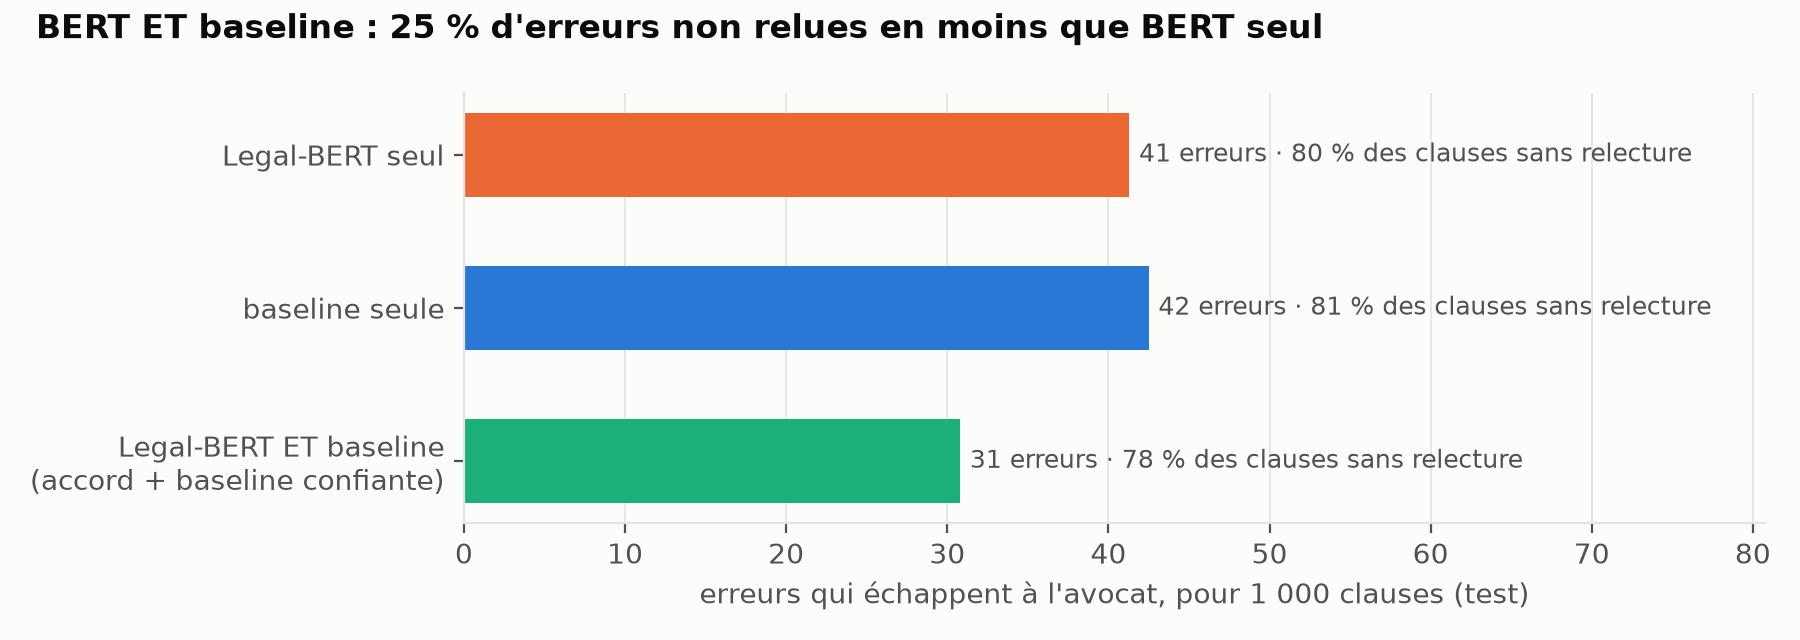
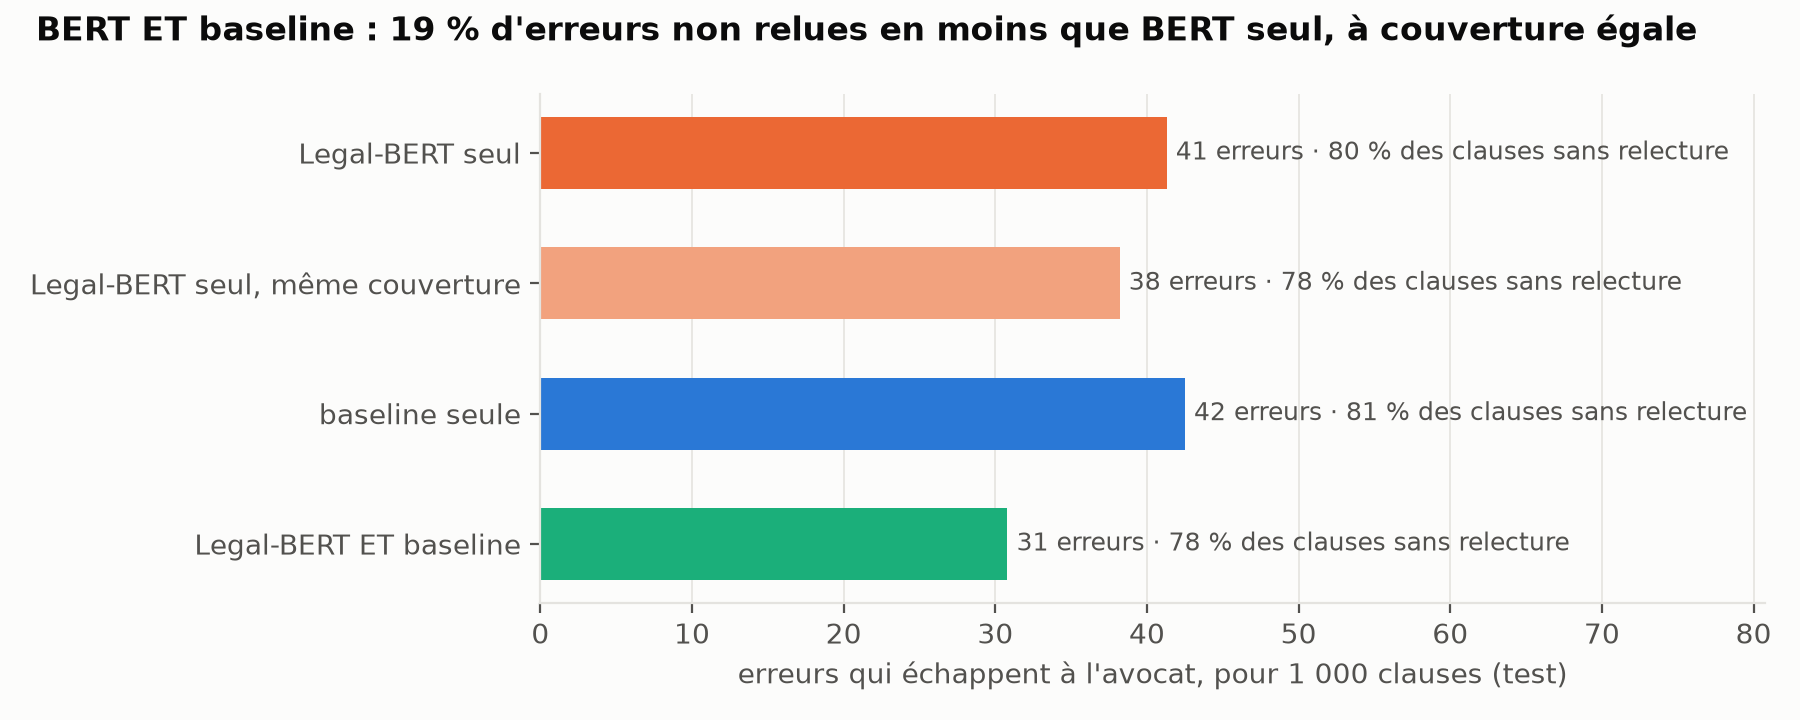
fix: address review of the audit (equal-coverage comparison, LSTM score, tests)
- combined rule also compared at equal coverage: 30.8 vs 38.2 unreviewed errors
  per 1,000 on test (-19%), 29.6 vs 37.3 on validation; figure and docs updated
- model card: BiLSTM test macro-F1 0.787; README: five findings
- limit: jurisdiction counterfactual creates unusual wording (State of France)
- tests for the combined rule and the per-subgroup macro-F1
- baseline setting read from baseline_results.csv instead of a hard-coded copy

diff --git a/src/ledgar/audit.py b/src/ledgar/audit.py
@@ -235,19 +235,31 @@ def ood_report(predict_proba, names, threshold, model_name):
 
 # ---------------------------------------------------------------- part 3: BERT AND the baseline
 
-def review_rules(split, thresholds):
-    """Which clauses are labelled without review, under three rules (thresholds chosen on validation).
+COMBINED = "Legal-BERT ET baseline"
+BERT_SAME_COVERAGE = "Legal-BERT seul, même couverture"
+
+
+def combine_rules(b_pred, b_conf, l_pred, l_conf, thresholds):
+    """Which clauses are labelled without review, under four rules. Returns {rule: (auto mask, predictions)}.
 
     The combined rule keeps Legal-BERT's label (the more accurate model) but labels a clause alone only if the
     baseline agrees AND is confident: the baseline's honest confidence becomes the safety net of BERT's labels.
-    Returns {rule: (auto mask, predictions)}.
+    It reviews a few more clauses than Legal-BERT alone, so it is also compared at EQUAL coverage: Legal-BERT alone
+    on its k most confident clauses, k = the number of clauses the combined rule labels alone.
     """
+    b_pred, b_conf, l_pred, l_conf = map(np.asarray, (b_pred, b_conf, l_pred, l_conf))
+    b_sure, l_sure = b_conf >= thresholds["baseline"], l_conf >= thresholds["legalbert_full_es"]
+    combined = (b_pred == l_pred) & b_sure
+    same_coverage = np.zeros(len(l_conf), dtype=bool)
+    same_coverage[np.argsort(-l_conf, kind="stable")[:int(combined.sum())]] = True
+    return {"Legal-BERT seul": (l_sure, l_pred), BERT_SAME_COVERAGE: (same_coverage, l_pred),
+            "baseline seule": (b_sure, b_pred), COMBINED: (combined, l_pred)}
+
+
+def review_rules(split, thresholds):
     b, l = load_predictions("baseline", split), load_predictions("legalbert_full_es", split)
-    b_sure, l_sure = b["confidence"].to_numpy() >= thresholds["baseline"], l["confidence"].to_numpy() >= thresholds["legalbert_full_es"]
-    agree = b["pred"].to_numpy() == l["pred"].to_numpy()
-    return {"Legal-BERT seul": (l_sure, l["pred"].to_numpy()),
-            "baseline seule": (b_sure, b["pred"].to_numpy()),
-            "Legal-BERT ET baseline (accord + baseline confiante)": (agree & b_sure, l["pred"].to_numpy())}, b["label"].to_numpy()
+    rules = combine_rules(b["pred"], b["confidence"], l["pred"], l["confidence"], thresholds)
+    return rules, b["label"].to_numpy()
 
 
 def combined_table(thresholds):
@@ -283,8 +295,8 @@ STYLE = {"figure.facecolor": "#fcfcfb", "axes.facecolor": "#fcfcfb", "savefig.fa
 
 
 def plot_subgroups(table, path, models=("baseline", "legalbert_full_es")):
-    keep = [("wording", None), ("freq_group", None), ("truncated_256", None), ("jurisdiction_group", None)]
-    rows = pd.concat([table[(table.attribut == a) & table.assez_grand] for a, _ in keep])
+    keep = ["wording", "freq_group", "truncated_256", "jurisdiction_group"]
+    rows = pd.concat([table[(table.attribut == a) & table.assez_grand] for a in keep])
     labels = {"wording": "Formulation", "freq_group": "Fréquence du type", "truncated_256": "Longueur", "jurisdiction_group": "Juridiction"}
     rows = rows.iloc[::-1].reset_index(drop=True)
     with plt.rc_context(STYLE):
@@ -331,20 +343,22 @@ def plot_abstention(val, test, abst, path, models=("baseline", "legalbert_full_e
 
 def plot_combined(table, path):
     t = table[table.split == "test"].reset_index(drop=True)
-    colors = [ORANGE, BLUE, AQUA]
+    colors = {"Legal-BERT seul": ORANGE, BERT_SAME_COVERAGE: "#f2a27e", "baseline seule": BLUE, COMBINED: AQUA}
     with plt.rc_context(STYLE):
-        fig, ax = plt.subplots(figsize=(9, 3.2))
+        fig, ax = plt.subplots(figsize=(9, 3.6))
         y = np.arange(len(t))[::-1]
-        ax.barh(y, t["erreurs_non_relues_pour_1000"], color=colors, height=0.55)
+        ax.barh(y, t["erreurs_non_relues_pour_1000"], color=[colors[r] for r in t["regle"]], height=0.55)
         for yi, (_, r) in zip(y, t.iterrows()):
             ax.text(r.erreurs_non_relues_pour_1000 + 0.6, yi, f"{r.erreurs_non_relues_pour_1000:.0f} erreurs · "
                     f"{100 * r.part_automatique:.0f} % des clauses sans relecture", va="center", fontsize=9, color=INK_2)
-        ax.set_yticks(y, t["regle"].str.replace(" (accord + baseline confiante)", "\n(accord + baseline confiante)", regex=False))
+        ax.set_yticks(y, t["regle"])
         ax.set_xlim(0, t["erreurs_non_relues_pour_1000"].max() * 1.9)
         ax.set_xlabel("erreurs qui échappent à l'avocat, pour 1 000 clauses (test)")
-        best, solo = t.iloc[2], t.iloc[0]
-        fig.suptitle(f"BERT ET baseline : {100 * (1 - best.erreurs_non_relues_pour_1000 / solo.erreurs_non_relues_pour_1000):.0f} % "
-                     f"d'erreurs non relues en moins que BERT seul", x=0.02, ha="left", fontsize=12, fontweight="bold", color=INK)
+        best = t[t.regle == COMBINED].iloc[0]
+        same = t[t.regle == BERT_SAME_COVERAGE].iloc[0]
+        fig.suptitle(f"BERT ET baseline : {100 * (1 - best.erreurs_non_relues_pour_1000 / same.erreurs_non_relues_pour_1000):.0f} % "
+                     f"d'erreurs non relues en moins que BERT seul, à couverture égale", x=0.02, ha="left", fontsize=12,
+                     fontweight="bold", color=INK)
         ax.grid(axis="y", visible=False)
         fig.tight_layout()
         fig.savefig(path, dpi=200)
@@ -386,7 +400,9 @@ def main():
     print("refitting the baseline for the counterfactual and OOD tests (~4 min)…", flush=True)
     vec = make_vectorizer()
     X = vec.fit_transform(ds["train"]["text"])
-    model = fit_model(X, ds["train"]["label"], C=30.0, class_weight="balanced")
+    chosen = pd.read_csv(TAB_DIR / "baseline_results.csv").iloc[0]       # setting chosen on validation by ledgar.baseline
+    weight = None if chosen["class_weight"] == "none" else chosen["class_weight"]
+    model = fit_model(X, ds["train"]["label"], C=float(chosen["C"]), class_weight=weight)
     predict_proba = lambda texts: model.predict_proba(vec.transform(texts))
     cf = counterfactual_report(predict_proba, test, "baseline")
     cf.to_csv(TAB_DIR / "audit_counterfactuals.csv", index=False)

diff --git a/tests/test_audit.py b/tests/test_audit.py
@@ -1,8 +1,31 @@
 import numpy as np
 import pandas as pd
 
-from ledgar.audit import (change_figures, choose_threshold, combined_ood, expected_calibration_error, swap_company_form,
-                          swap_gender, swap_jurisdiction, wilson)
+from ledgar.audit import (BERT_SAME_COVERAGE, COMBINED, change_figures, choose_threshold, combine_rules, combined_ood,
+                          expected_calibration_error, subgroup_table, swap_company_form, swap_gender, swap_jurisdiction,
+                          wilson)
+
+
+def test_combine_rules_and_equal_coverage():
+    b_pred, b_conf = [0, 1, 2, 3, 4], [0.9, 0.9, 0.5, 0.9, 0.9]
+    l_pred, l_conf = [0, 1, 2, 9, 4], [0.999, 0.80, 0.999, 0.999, 0.70]
+    rules = combine_rules(b_pred, b_conf, l_pred, l_conf, {"baseline": 0.74, "legalbert_full_es": 0.99})
+    # combined: agree (0, 1, 2, 4) AND baseline sure (not 2) -> clauses 0, 1, 4
+    assert rules[COMBINED][0].tolist() == [True, True, False, False, True]
+    assert rules["Legal-BERT seul"][0].tolist() == [True, False, True, True, False]
+    # same coverage = Legal-BERT's 3 most confident clauses (0, 2, 3), whatever the baseline says
+    assert rules[BERT_SAME_COVERAGE][0].sum() == rules[COMBINED][0].sum() == 3
+    assert rules[BERT_SAME_COVERAGE][0].tolist() == [True, False, True, True, False]
+    assert (rules[COMBINED][1] == np.array(l_pred)).all(), "the combined rule keeps Legal-BERT's labels"
+
+
+def test_subgroup_macro_f1_ignores_types_absent_from_the_group():
+    df = pd.DataFrame({"g": ["a", "a", "a", "b"], "label": [0, 0, 1, 2], "m_pred": [0, 5, 1, 2]})
+    df["m_ok"] = df["m_pred"] == df["label"]
+    t = subgroup_table(df, models={"m": "m"}, columns=["g"]).set_index("groupe")
+    # group a: type 0 has F1 = 2/3, type 1 has F1 = 1; the wrongly predicted type 5 must not count as a 0
+    assert abs(t.loc["a", "m_macro_f1"] - (2 / 3 + 1) / 2) < 1e-9
+    assert t.loc["a", "m_accuracy"] == 2 / 3 and t.loc["b", "m_macro_f1"] == 1.0
 
 
 def test_combined_rule_catches_a_confident_bert_error():

diff --git a/reports/model_card.md b/reports/model_card.md
@@ -36,7 +36,7 @@ genre…) sont déduits du texte par expressions régulières (`ledgar.metadata`
 | --- | --- | --- | --- |
 | TF-IDF + régression logistique (baseline) | 0,828 | 0,873 | ≈ 4 min, CPU |
 | Legal-BERT, fine-tuning complet, arrêt anticipé | 0,825 | 0,883 | ≈ 2 h 30, GPU T4 |
-| BiLSTM + GloVe | 0,788 | 0,860 | GPU, 19 s / epoch |
+| BiLSTM + GloVe | 0,787 | 0,860 | GPU, 19 s / epoch |
 | Legal-BERT + LoRA r = 8 (3 epochs) | 0,768 | 0,853 | ≈ 35 min, GPU |
 
 Legal-BERT égale la baseline en macro-F1 (écart non significatif, bootstrap apparié) et la dépasse d'un point en
@@ -119,11 +119,14 @@ confiante** (seuil 0,74, choisi sur la validation). Sinon, elle part chez un avo
 | Règle (test) | Clauses étiquetées seules | Leur accuracy | Erreurs non relues pour 1 000 clauses |
 | --- | --- | --- | --- |
 | Legal-BERT seul (seuil 0,996) | 80,0 % | 94,8 % | 41 |
+| Legal-BERT seul, même couverture (ses 78,3 % de clauses les plus confiantes) | 78,3 % | 95,1 % | 38 |
 | Baseline seule (seuil 0,74) | 81,0 % | 94,8 % | 42 |
 | **Legal-BERT ET baseline** | **78,3 %** | **96,1 %** | **31** |
 
-Un quart d'erreurs non relues en moins, pour 2 points de clauses en plus envoyées à un avocat ; même résultat sur la
-validation (30 contre 40). Quand les deux modèles sont en désaccord (10 % des clauses), Legal-BERT n'a raison que dans
+La règle combinée relit un peu plus de clauses que Legal-BERT seul (21,7 % contre 20,0 %). La comparaison juste se
+fait donc **à couverture égale** : 30,8 contre 38,2 erreurs non relues pour 1 000 clauses au test, soit **19 % de
+moins** (validation : 29,6 contre 37,3, soit 21 % de moins). Contre Legal-BERT seul à son propre seuil, l'écart est
+de 31 contre 41. Quand les deux modèles sont en désaccord (10 % des clauses), Legal-BERT n'a raison que dans
 43 % des cas : le désaccord est un excellent signal d'alerte. Figure : `results/figures/audit_combined.png`.
 
 ## Limites connues
@@ -132,6 +135,8 @@ validation (30 contre 40). Quand les deux modèles sont en désaccord (10 % des 
   (`ledgar.audit.counterfactual_report` et `ood_report` acceptent n'importe quelle fonction de prédiction).
 - La règle combinée a été conçue après avoir vu les sondes hors distribution ; ses seuils viennent de la validation et
   son gain est le même sur la validation et sur le test.
+- Le contrefactuel de juridiction produit des tournures qui n'existent pas en pratique (« the laws of the State of
+  France ») : une partie des prédictions qui changent peut venir de la tournure inhabituelle plutôt que du pays.
 - La confiance de Legal-BERT pourrait être recalibrée (*temperature scaling* sur la validation) : piste non testée.
 - Attributs d'audit déduits par regex, sur une seule clause ; « emploi » inclut les attributions d'actions.
 - Un seul run (seed) par modèle ; clauses tronquées à 256 tokens pour BERT.

diff --git a/README.md b/README.md
@@ -189,13 +189,13 @@ Banque = les 60 000 clauses du train ; une clause retrouvée est pertinente si e
 
 ### Volet C · Audit : où lui faire confiance
 
-Détail, usages interdits et limites : **[`reports/model_card.md`](reports/model_card.md)**. Les quatre constats principaux (test) :
+Détail, usages interdits et limites : **[`reports/model_card.md`](reports/model_card.md)**. Les cinq constats principaux (test) :
 
 - **Formules types contre formulations nouvelles.** 98,8 % d'accuracy sur les clauses quasi copiées du train (15 % du test), 81,5 % sur les formulations nouvelles (63 %) pour la baseline ; Legal-BERT y gagne 1,5 point (83,0 %). Les types rares perdent ~15 points.
 - **Confiance.** Celle de la baseline est honnête (ECE 0,023) ; Legal-BERT est très surconfiant (confiance moyenne 0,98 pour 0,88 d'accuracy, 74 % de ses erreurs à plus de 0,9).
 - **Relecture humaine.** Un seuil choisi sur la validation pour 95 % d'accuracy laisse les deux modèles étiqueter seuls ~80 % des clauses (94,8 % d'accuracy au test) et envoie les ~20 % restantes à un avocat.
 - **Robustesse.** Genre, forme de société et chiffres changent moins de 3,5 % des prédictions des deux modèles ; remplacer la juridiction par la France en change 11,8 % pour la baseline (accuracy 81 % → 72 %) mais 4,4 % pour Legal-BERT. Sur 9 clauses pièges (français, style européen, types absents des 100), Legal-BERT se trompe moins mais laisse passer une erreur à 99,9 % de confiance ; la baseline n'en laisse passer aucune.
-- **Système recommandé : Legal-BERT ET la baseline.** Legal-BERT propose le type ; la clause n'est étiquetée sans relecture que si la baseline est d'accord et confiante. Au test : 31 erreurs non relues pour 1 000 clauses, contre 41 pour Legal-BERT seul, pour 78 % de clauses traitées seules (`python -m ledgar.audit --combined`, figure `results/figures/audit_combined.png`).
+- **Système recommandé : Legal-BERT ET la baseline.** Legal-BERT propose le type ; la clause n'est étiquetée sans relecture que si la baseline est d'accord et confiante. Au test, à couverture égale (78 % de clauses traitées seules) : 31 erreurs non relues pour 1 000 clauses contre 38 pour Legal-BERT seul, soit 19 % de moins (validation : 21 %) (`python -m ledgar.audit --combined`, figure `results/figures/audit_combined.png`).
 
 ## Règles de travail
 
